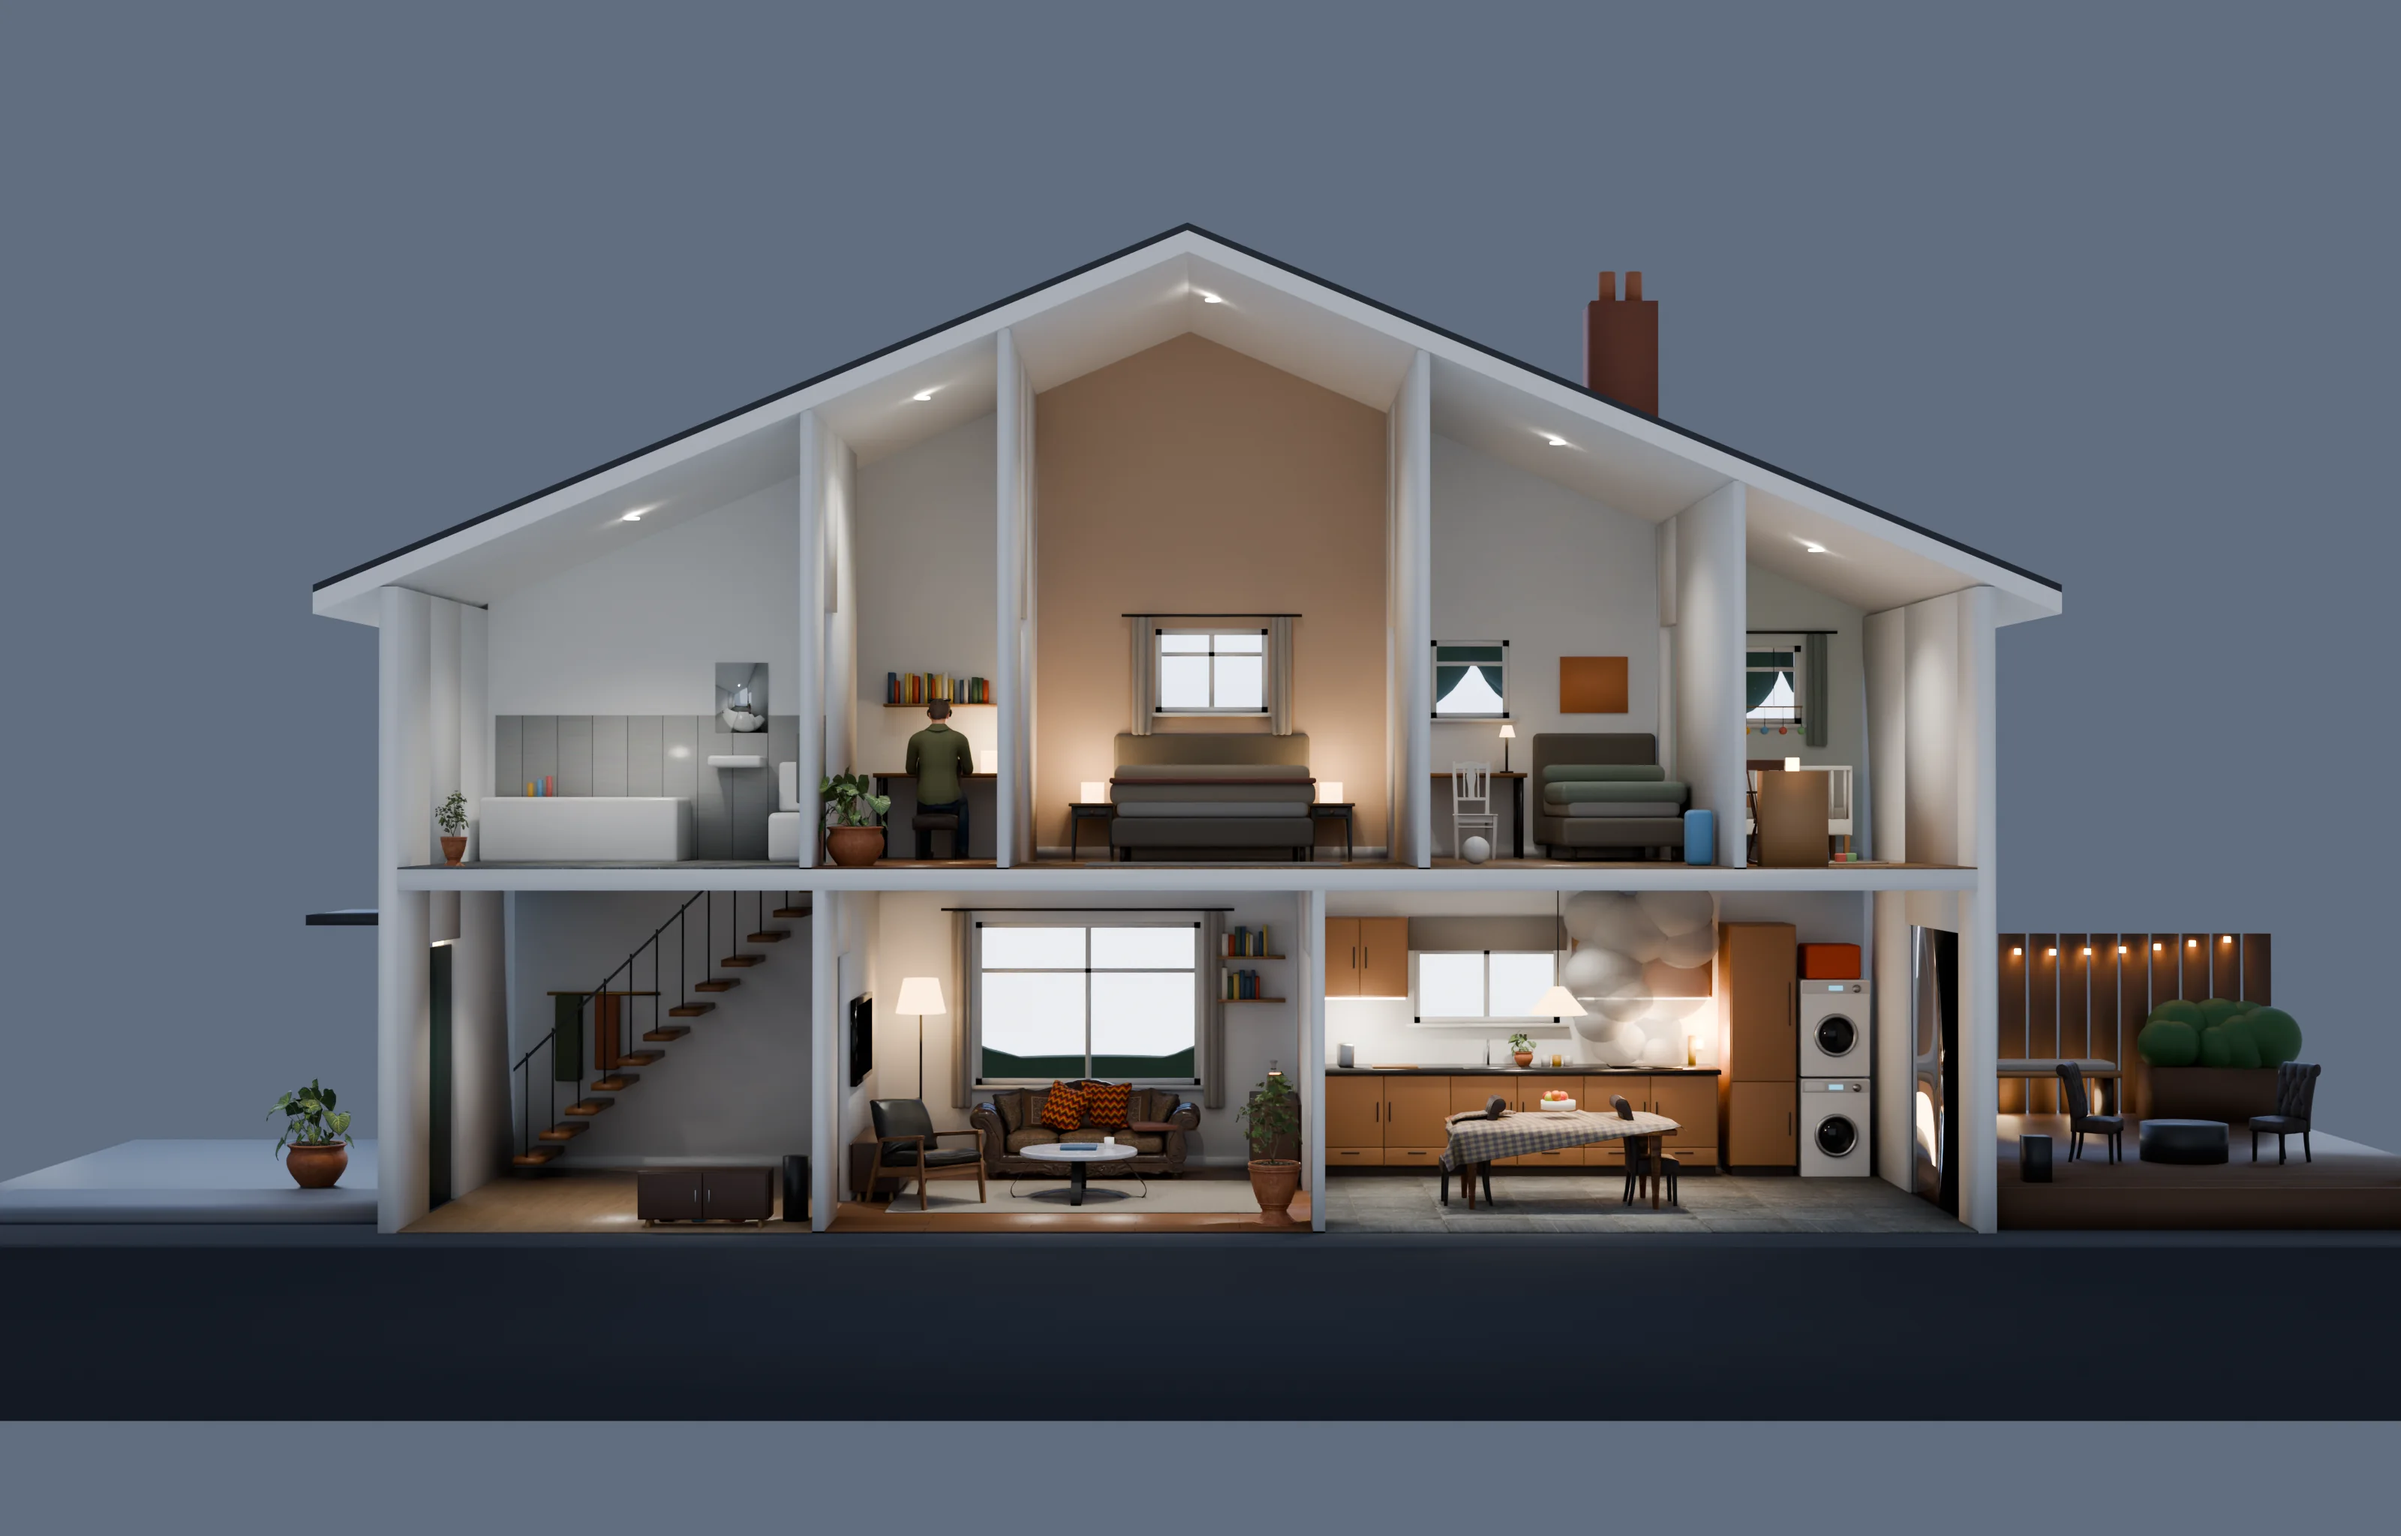
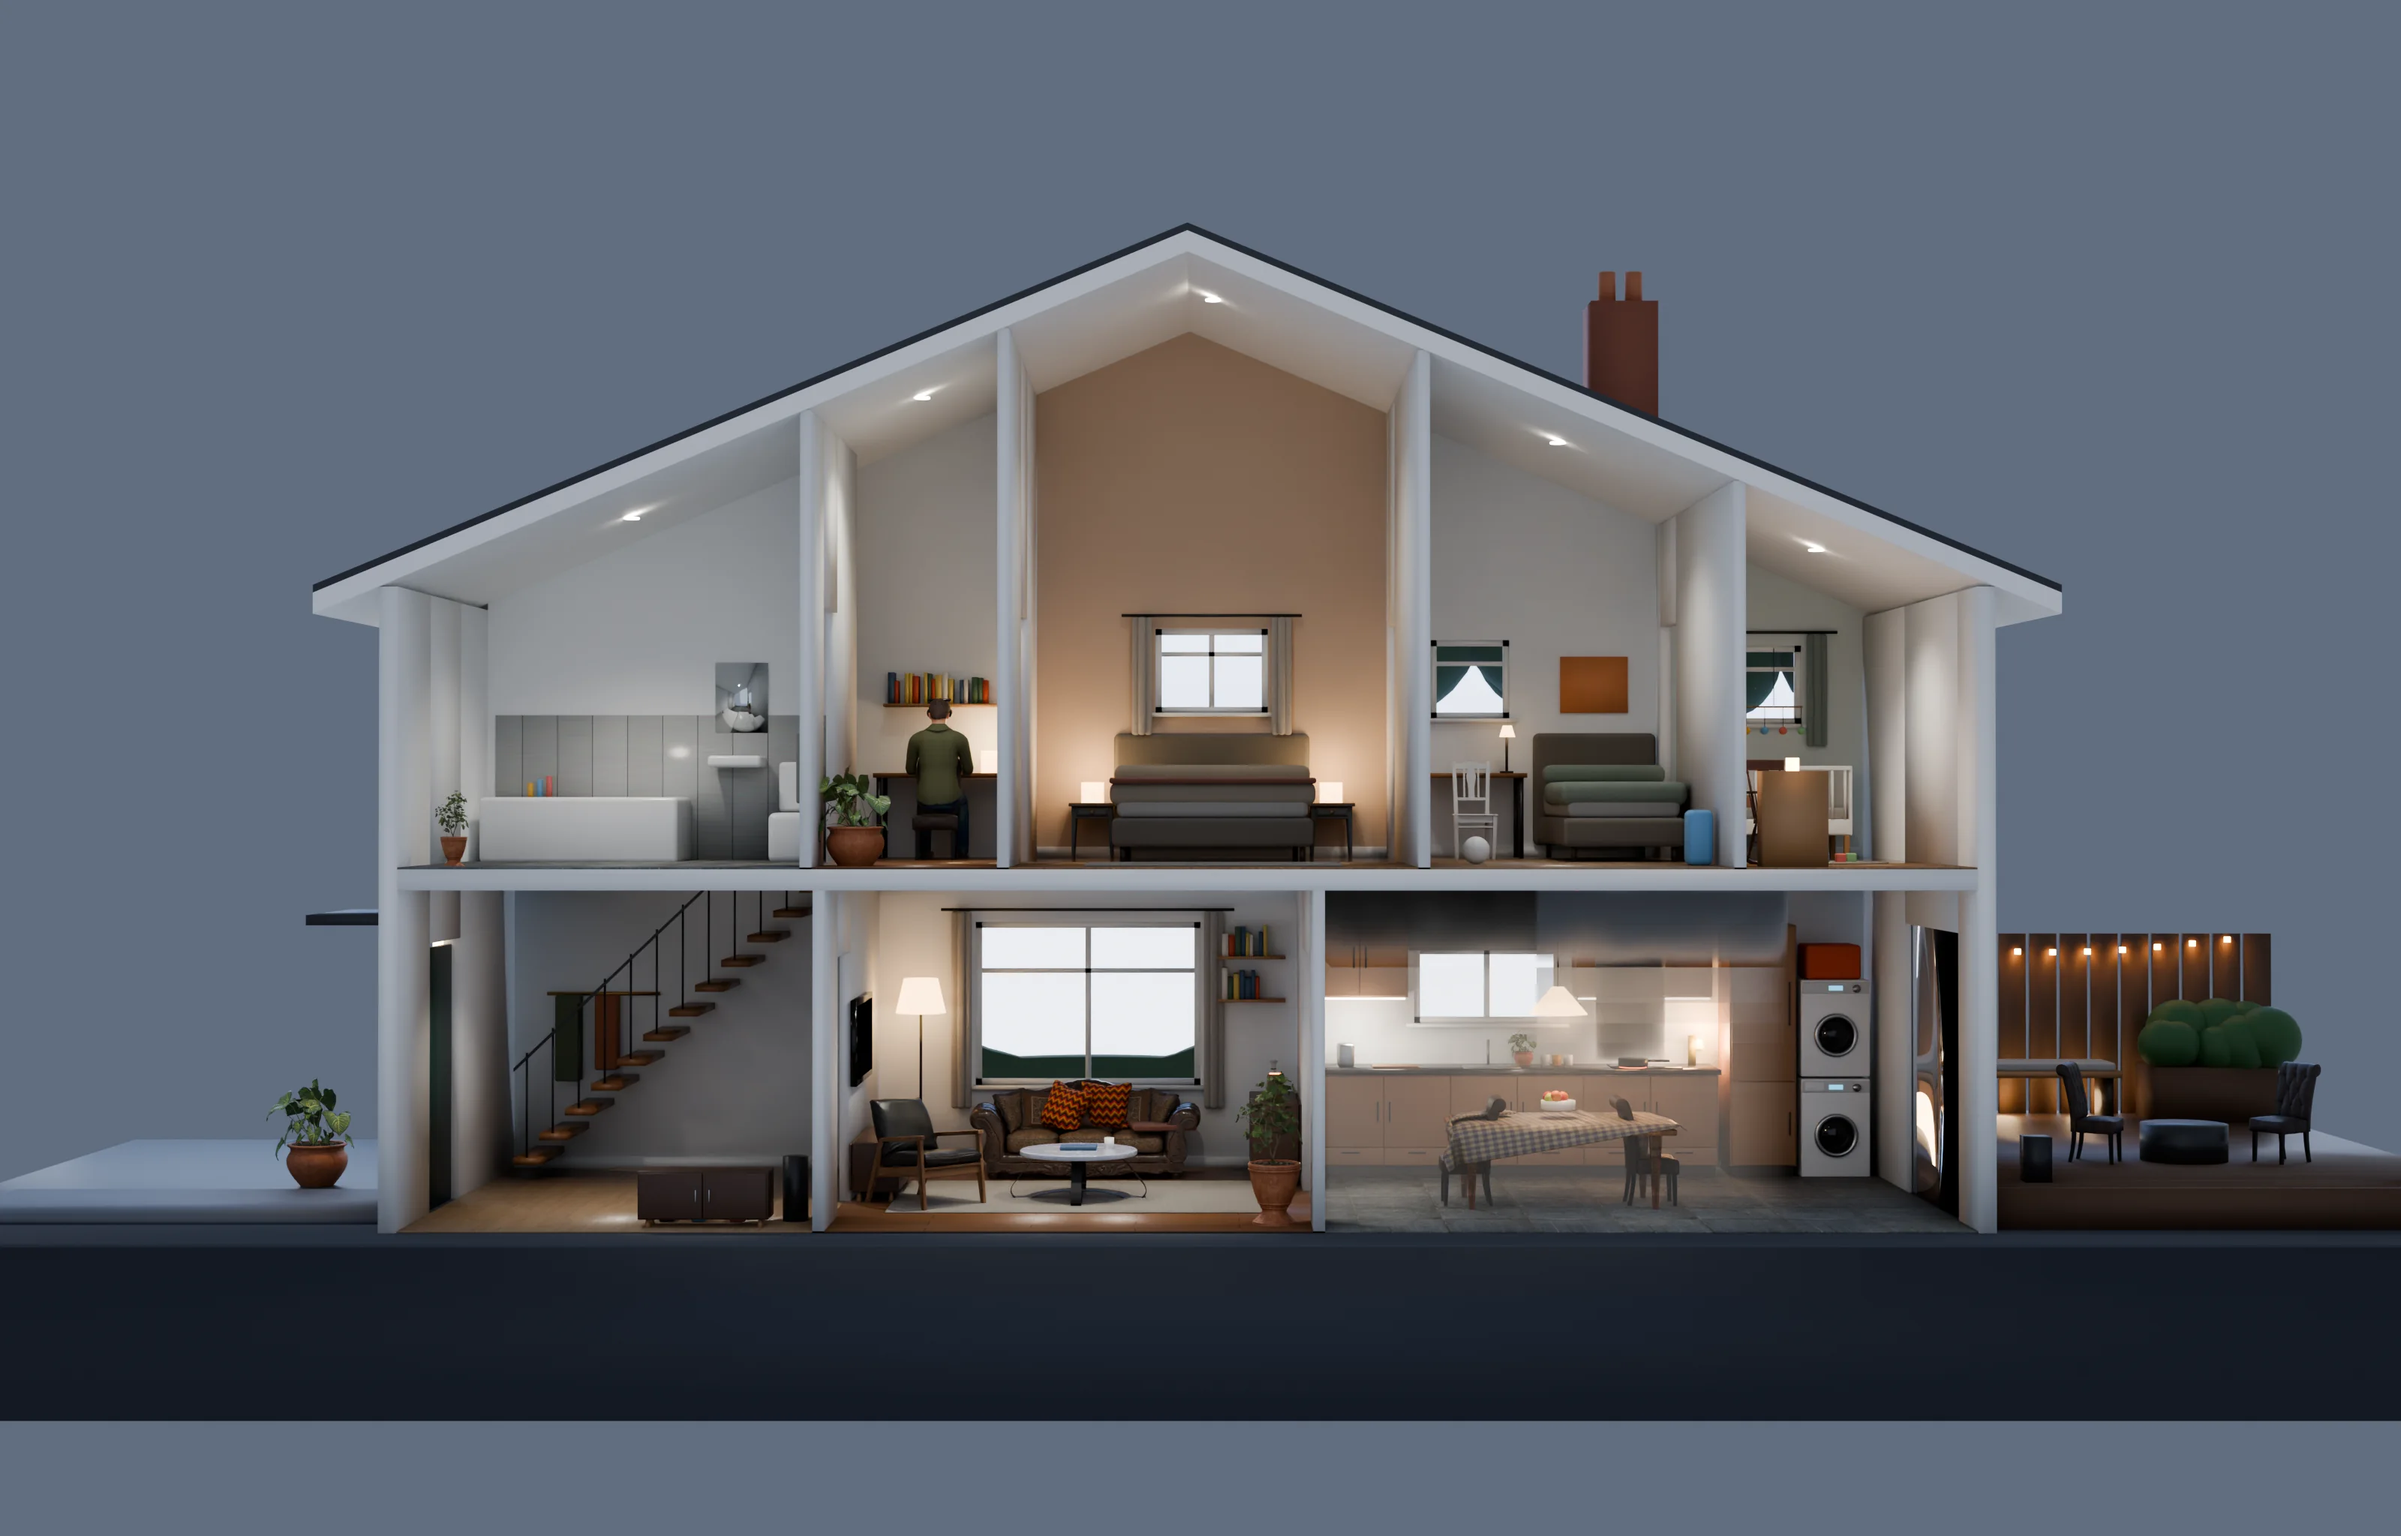
Smoke scene: a pan left on the hob and haze under the ceiling

Changed region(s): [[0.5, 0.5625, 0.8438, 0.8125]]

diff --git a/day.js b/day.js
@@ -45,7 +45,7 @@
   var cam = document.createElement('div'); cam.className = 'day-cam day-strip'; scroller.appendChild(cam);
   var panels = S.map(function () { var d = document.createElement('div'); d.className = 'day-panel'; cam.appendChild(d); return d; });
   var imgs = S.map(function (s, i) {
-    var im = document.createElement('img'); im.src = (SMALL ? s.img.replace(/^\.\.\//, '../sm/').replace(/^s/, 'sm/s') : s.img) .replace(/^/, 'day/story/') + '.webp?v=12'; im.className = 'day-img'; im.decoding = 'async'; if (i) im.loading = 'lazy';
+    var im = document.createElement('img'); im.src = (SMALL ? s.img.replace(/^\.\.\//, '../sm/').replace(/^s/, 'sm/s') : s.img) .replace(/^/, 'day/story/') + '.webp?v=13'; im.className = 'day-img'; im.decoding = 'async'; if (i) im.loading = 'lazy';
     im.alt = i === 0 ? 'A cutaway of a two-storey family home, with Adam on the living-room sideboard' : ''; if (i) im.setAttribute('aria-hidden', 'true');
     panels[i].appendChild(im); return im;
   });

diff --git a/index.html b/index.html
@@ -208,7 +208,7 @@
   <script src="inside/data.js?v=3"></script>
   <script src="inside.js?v=31"></script>
   <script src="family.js?v=38"></script>
-  <script src="day.js?v=45"></script>
+  <script src="day.js?v=46"></script>
   <script src="works.js?v=15"></script>
   <script src="motion.js?v=6"></script>
   <script defer src="https://static.cloudflareinsights.com/beacon.min.js" data-cf-beacon='{"token": "fa91610f67df4fe6930c70fdb61ca0b7"}'></script>
